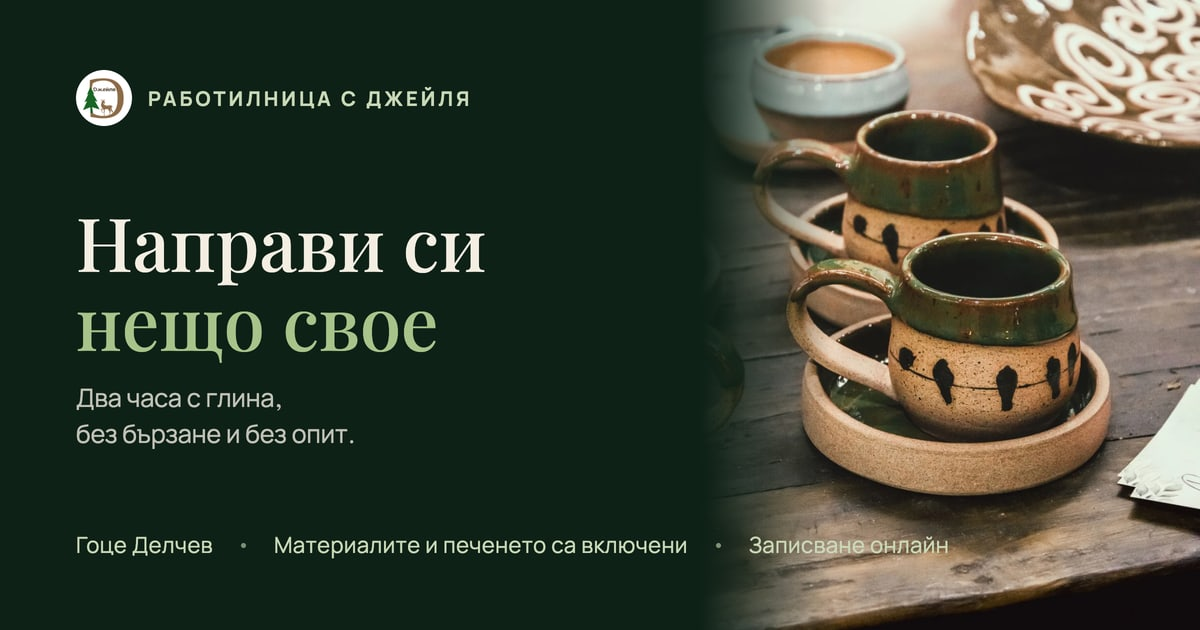
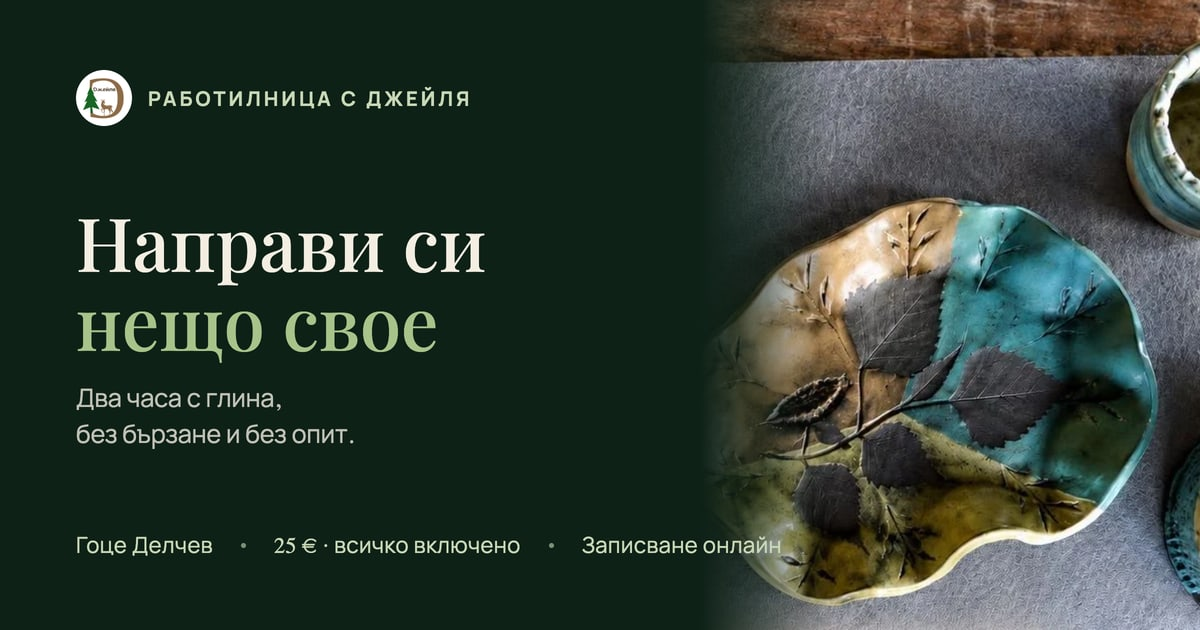
Нейни снимки от Facebook; истинските цена, места и майстор от плакатите ѝ

diff --git a/src/data/site.ts b/src/data/site.ts
@@ -15,7 +15,9 @@ export const brand = {
   phone: '+359893622801',
   phoneDisplay: '0893 622 801',
   city: 'Гоце Делчев',
-  venue: 'ул. „Брегалница“ 3',
+  venue: 'ул. „Брегалница“ 1',
+  /** Води работилниците; Джейля е домакин и приема записванията. */
+  ceramicist: 'Злата Златкова',
 };
 
 export const hero = {
@@ -32,17 +34,17 @@ export const hero = {
    * never quite still.
    */
   piece: {
-    src: '/media/piece-chashi.webp',
-    alt: 'Ръчно изработени керамични чаши върху дървена маса',
+    src: '/media/her/chiniya.webp',
+    alt: 'Ботаническа чиния с отпечатани листа, направена на работилница',
     caption: 'Направено на работилница',
   },
   piece2: {
-    src: '/media/piece-chasha.webp',
-    alt: 'Керамична чаша, оставена да изсъхне',
+    src: '/media/her/chasha-sinya.webp',
+    alt: 'Ръчно рисувана керамична чаша',
   },
   facts: [
     { k: 'Трае', v: '2 часа' },
-    { k: 'Цена', v: '31 €' },
+    { k: 'Цена', v: '25 €' },
     { k: 'Опит', v: 'не е нужен' },
   ],
 };
@@ -65,16 +67,16 @@ export const process = {
       at: '0:00',
       title: 'Сядаш и се запознаваме',
       text:
-        'Наливам по чаша лимонада и показвам глината — каква е на пипане и какво ще правим с нея. Пет минути, колкото да се отпуснем.',
-      image: '/media/workshop/glina-na-masata.webp',
-      alt: 'Ръце месят глина върху дървена дъска',
+        'Наливам по чаша домашна лимонада, а Злата показва глината — каква е на пипане и какво ще правим с нея. Пет минути, колкото да се отпуснем.',
+      image: '/media/her/masa-race.webp',
+      alt: 'Хора работят с глина около обща маса',
     },
     {
       at: '0:20',
       title: 'Оформяш',
       text:
-        'Показвам захвата, после е твое. Мачкаш, изтъняваш, вдигаш стените. Глината прощава — ако не стане, започваш отначало със същата буца.',
-      image: '/media/workshop/oformyane.webp',
+        'Злата показва захвата, после е твое. Мачкаш, изтъняваш, вдигаш стените. Глината прощава — ако не стане, започваш отначало със същата буца.',
+      image: '/media/her/oformyane.webp',
       alt: 'Ръце оформят глина',
     },
     {
@@ -82,16 +84,16 @@ export const process = {
       title: 'Украсяваш',
       text:
         'Печати, шарки, инициали, листо от двора. Тук всяка чаша става различна от съседната.',
-      image: '/media/workshop/risuvane.webp',
-      alt: 'Ръка рисува върху керамична чаша',
+      image: '/media/her/otpechatak.webp',
+      alt: 'Ръце отпечатват листа в глинена плоча',
     },
     {
       at: '1:50',
       title: 'Оставяш я при мен',
       text:
-        'Глината трябва да изсъхне и да мине два пъти през пещта. Пиша ти, щом чашата е готова, и си я вземаш оттук.',
-      image: '/media/workshop/gotovi-za-pech.webp',
-      alt: 'Изсъхнали керамични чаши, подредени преди изпичане',
+        'Глината трябва да изсъхне и да мине два пъти през пещта. Пиша ти, щом чашата е готова, и си я вземаш от магазина.',
+      image: '/media/her/magazin.webp',
+      alt: 'Рафтове с готови керамични чаши в магазина',
     },
   ],
 };
@@ -126,12 +128,12 @@ export const included = {
     {
       title: 'Изпичане и глазиране',
       text: 'Двете печения след това са включени в цената.',
-      image: '/media/workshop/inc-prestilka.webp',
+      image: '/media/her/rabota.webp',
     },
     {
-      title: 'Помощ през цялото време',
-      text: 'Показвам, обяснявам и оправям, ако се обърка.',
-      image: '/media/workshop/inc-pomosht.webp',
+      title: 'Майстор до теб',
+      text: 'Злата показва, обяснява и оправя, ако се обърка.',
+      image: '/media/her/momiche.webp',
     },
   ],
 };
@@ -147,34 +149,34 @@ export const gallery = {
    */
   rows: [
     [
-      { src: '/media/gallery/chinii-i-chashi.webp', w: 1300, h: 867, span: 5,
-        alt: 'Ръчно изработени чинии и чаши, подредени на купчина',
-        caption: 'Чинии и чаши от една вечер' },
-      { src: '/media/gallery/chasha-cvetna.webp', w: 1300, h: 1950, span: 3,
-        alt: 'Керамична чаша с цветна шарка',
+      { src: '/media/her/chiniya.webp', w: 810, h: 695, span: 5,
+        alt: 'Ботаническа чиния с отпечатани листа',
+        caption: 'Ботаническа чиния — листата се отпечатват в глината' },
+      { src: '/media/her/chasha-sinya.webp', w: 520, h: 280, span: 3,
+        alt: 'Ръчно рисувана синя керамична чаша',
         caption: 'Шарката я измисля този, който я прави' },
-      { src: '/media/gallery/chashi-raft.webp', w: 1300, h: 867, span: 4,
-        alt: 'Керамични чаши на дървен рафт',
-        caption: 'Рафтът в ателието, преди да си ги приберат' },
+      { src: '/media/her/magazin.webp', w: 540, h: 700, span: 4,
+        alt: 'Рафтове с керамични чаши в магазина',
+        caption: 'Рафтът в магазина, преди да си ги приберат' },
     ],
     [
-      { src: '/media/gallery/sini-chashi.webp', w: 1300, h: 867, span: 4,
-        alt: 'Сини керамични чаши с ръчна шарка',
-        caption: 'Една глеч, четири различни чаши' },
+      { src: '/media/her/momiche.webp', w: 412, h: 275, span: 4,
+        alt: 'Участничка украсява чашата си',
+        caption: 'Два часа минават, без да усетиш' },
       { src: '/media/gallery/chasha-risuvana.webp', w: 1300, h: 1733, span: 3,
         alt: 'Ръчно рисувана керамична чаша',
         caption: 'Рисувана на ръка, след първото печене' },
-      { src: '/media/gallery/chashi-darven-raft.webp', w: 1300, h: 867, span: 5,
-        alt: 'Керамични чаши, подредени на рафт',
-        caption: 'Чакат втората пещ' },
+      { src: '/media/her/otpechatak.webp', w: 430, h: 308, span: 5,
+        alt: 'Ръце отпечатват листа в глинена плоча',
+        caption: 'Листото остава в глината завинаги' },
     ],
     [
       { src: '/media/gallery/sin-servis.webp', w: 1300, h: 867, span: 5,
         alt: 'Син керамичен сервиз на рафт',
         caption: 'Като се хванеш, спираш трудно' },
-      { src: '/media/gallery/chashi-tabla.webp', w: 1300, h: 867, span: 4,
-        alt: 'Керамични чаши върху табла',
-        caption: 'Готови за прибиране' },
+      { src: '/media/her/masa-race.webp', w: 402, h: 268, span: 4,
+        alt: 'Общата маса по време на работилница',
+        caption: 'Масата е обща — и разговорът също' },
       { src: '/media/gallery/chasha-cherna.webp', w: 1300, h: 1950, span: 3,
         alt: 'Тъмна керамична чаша',
         caption: 'Матова глеч — любимата на повечето' },

diff --git a/src/data/events.ts b/src/data/events.ts
@@ -23,27 +23,27 @@ export const seedEvents: WorkshopEvent[] = [
       'Два вечерни часа с буца глина, чаша домашна лимонада и маса, на която никой не бърза.',
     description:
       'Започваме с глината — каква е на пипане, докъде се разтяга и защо прощава. После всеки сяда пред своята буца: оформяш чаша, изтъняваш стените, правиш дръжката. Минавам покрай всеки и помагам, но формата си е изцяло твоя. Накрая избираш глеч и оставяш чашата при мен — глината минава два пъти през пещта и си я вземаш, щом е готова.',
-    cover_image: '/media/gallery/chashi-raft.webp',
+    cover_image: '/media/her/chasha-sinya.webp',
     starts_at: '2026-10-16T19:00:00+03:00',
     duration_minutes: 120,
-    venue_name: 'Ателие „Джейля“',
-    venue_address: 'ул. „Брегалница“ 3, Гоце Делчев',
-    venue_map_url: 'https://maps.google.com/?q=ул.+Брегалница+3,+Гоце+Делчев',
+    venue_name: 'Магазин „Джейля“',
+    venue_address: 'ул. „Брегалница“ 1, Гоце Делчев',
+    venue_map_url: 'https://maps.google.com/?q=ул.+Брегалница+1,+Гоце+Делчев',
     city: 'Гоце Делчев',
-    price_cents: 3100,
-    price_note: 'Глината, глечта, изпичането и лимонадата са включени.',
-    capacity: 12,
-    seats_taken: 8,
+    price_cents: 2500,
+    price_note: 'Всичко е включено — материали, изпичане и домашна лимонада.',
+    capacity: 8,
+    seats_taken: 5,
     min_age: 12,
     includes: [
-      'Глина, колкото ти трябва',
-      'Глеч по избор',
-      'Инструменти и престилка',
-      'Двете печения след работилницата',
-      'Чаша домашна лимонада',
+      'Работилница със Злата Златкова',
+      'Всички материали и инструменти',
+      'Изработка на собствена чаша',
+      'Изпичане и глазиране',
+      'Домашна лимонада и почерпка',
     ],
     bring_note: 'Ела с дрехи, които не ти е жал да изцапаш.',
-    host_note: 'Води Джейля',
+    host_note: 'Води Злата Златкова, майстор керамик',
     waitlist_enabled: true,
   },
   {
@@ -58,26 +58,27 @@ export const seedEvents: WorkshopEvent[] = [
       'По-дълга работилница за тези, които искат чашата да е точно по тяхната ръка.',
     description:
       'Три часа само върху чашата: формата, дебелината на стените, дръжката и накрая украсата. Показвам ти как се държи глината и как се поправя, когато тръгне накриво. Избираш глеч, аз поемам пещта и ти пиша, щом чашата е готова за прибиране.',
-    cover_image: '/media/gallery/chasha-risuvana.webp',
+    cover_image: '/media/her/momiche.webp',
     starts_at: '2026-11-08T18:30:00+02:00',
-    duration_minutes: 180,
-    venue_name: 'Ателие „Джейля“',
-    venue_address: 'ул. „Брегалница“ 3, Гоце Делчев',
-    venue_map_url: 'https://maps.google.com/?q=ул.+Брегалница+3,+Гоце+Делчев',
+    duration_minutes: 120,
+    venue_name: 'Магазин „Джейля“',
+    venue_address: 'ул. „Брегалница“ 1, Гоце Делчев',
+    venue_map_url: 'https://maps.google.com/?q=ул.+Брегалница+1,+Гоце+Делчев',
     city: 'Гоце Делчев',
-    price_cents: 4500,
-    price_note: 'Глината, глечта и изпичането са включени.',
-    capacity: 10,
-    seats_taken: 3,
+    price_cents: 2500,
+    price_note: 'Всичко е включено — материали, изпичане и домашна лимонада.',
+    capacity: 8,
+    seats_taken: 2,
     min_age: 12,
     includes: [
-      'Глина и глеч по избор',
-      'Инструменти и престилка',
-      'Двете печения след работилницата',
-      'Кафе, чай или лимонада',
+      'Работилница със Злата Златкова',
+      'Всички материали и инструменти',
+      'Изработка на собствена чаша',
+      'Изпичане и глазиране',
+      'Домашна лимонада и почерпка',
     ],
     bring_note: null,
-    host_note: 'Води Джейля',
+    host_note: 'Води Злата Златкова, майстор керамик',
     waitlist_enabled: true,
   },
   {
@@ -92,27 +93,27 @@ export const seedEvents: WorkshopEvent[] = [
       'Създаваш своя ботаническа чиния — с листа и цветя, отпечатани направо в глината.',
     description:
       'Разточваме глината на плоско и отпечатваме в нея листа, треви и цветя. После я оформяме в чиния и я оставяме да съхне. Всяка чиния излиза различна, защото няма две еднакви листа. Глечта и двете печения са включени — пиша ти, щом е готова.',
-    cover_image: '/media/gallery/chinii-i-chashi.webp',
+    cover_image: '/media/her/chiniya.webp',
     starts_at: '2026-12-06T17:00:00+02:00',
-    duration_minutes: 150,
-    venue_name: 'Ателие „Джейля“',
-    venue_address: 'ул. „Брегалница“ 3, Гоце Делчев',
-    venue_map_url: 'https://maps.google.com/?q=ул.+Брегалница+3,+Гоце+Делчев',
+    duration_minutes: 120,
+    venue_name: 'Магазин „Джейля“',
+    venue_address: 'ул. „Брегалница“ 1, Гоце Делчев',
+    venue_map_url: 'https://maps.google.com/?q=ул.+Брегалница+1,+Гоце+Делчев',
     city: 'Гоце Делчев',
-    price_cents: 3600,
-    price_note: 'Глината, глечта и изпичането са включени.',
-    capacity: 14,
-    seats_taken: 14,
+    price_cents: 2500,
+    price_note: 'Всичко е включено — материали, изпичане и домашна лимонада.',
+    capacity: 8,
+    seats_taken: 8,
     min_age: 12,
     includes: [
-      'Глина и глеч по избор',
+      'Работилница със Злата Златкова',
       'Листа и треви за отпечатване',
-      'Инструменти и престилка',
-      'Двете печения след работилницата',
-      'Чаша домашна лимонада',
+      'Всички материали и инструменти',
+      'Изпичане и глазиране',
+      'Домашна лимонада и почерпка',
     ],
     bring_note: null,
-    host_note: 'Води Джейля',
+    host_note: 'Води Злата Златкова, майстор керамик',
     waitlist_enabled: true,
   },
 ];

diff --git a/PLACEHOLDERS.md b/PLACEHOLDERS.md
@@ -5,25 +5,45 @@ not moss art in Пловдив. Everything on the site was rewritten for that, b
 most of the specifics are still guesses. Do not show a client a site whose data
 looks authoritative without saying which parts you made up.
 
-## Real — confirmed from her own Facebook
+## Real — read off her own event posters
 
+Her four Facebook event covers are posters, and they carry the details. These
+are no longer guesses:
+
+- **Злата Златкова, майстор керамик, leads the workshops.** Джейля hosts them
+  in her shop and takes the bookings. The site now says so — „Злата показва
+  захвата“, „Води Злата Златкова“ — instead of implying Джейля teaches.
+- **25 € per person, всичко включено.** Not the 31/45/36 I had invented.
+- **8 places.** „САМО 8 МЕСТА“ on two of the posters.
+- **Два часа**, evening starts (18:00) or afternoon (16:00).
+- **Магазин „Джейля“**, and the posters give the address as
+  **ул. „Брегалница“ 1** — see the conflict below.
+- **What is included**, in her own words: работилница със Злата · всички
+  материали и инструменти · изработка на собствена чаша · изпичане ·
+  домашна лимонада и почерпка · много смях.
+- **Booking today is by private message** — „Запази своето място с лично
+  съобщение“. That is precisely the gap this site closes.
+- **The three workshop titles** are hers: „Глина и лимонада“, „Направи своя
+  керамична чаша“ (edition #7), „Природа, глина, лимонада“ — ботаническа
+  чиния (edition #5).
 - **The brand** — „Подари с Джейля“: logo, phone, email, Instagram, Facebook,
-  and the shop at edinpodarak.com.
-- **The three workshop titles.** They are hers, taken from her event pages:
-  „Глина и лимонада“, „Направи своя керамична чаша“ (that one is at edition #7),
-  „Природа, глина, лимонада“ — ботаническа чиния (edition #5).
-- **The town and street** — гр. Гоце Делчев, ул. „Брегалница“ 3.
+  and the shop, which her poster gives as edinpodarak.com.
 - **One line of the hero copy** is her own, from a post of hers:
   *„Понякога най-хубавите вечери не са пред екрана, а с чаша в ръце, която сам
   си създал.“* It is lightly adapted. If she would rather it stayed hers alone,
   it is one line to change.
 
+### One conflict to settle
+
+Her posters say **ул. „Брегалница“ 1**. The place tag on her Facebook events
+says **ул. Брегалница 3**. The site uses **1**, from the posters. Ask her.
+
 ## Invented — must be confirmed
 
 | Where | What is made up |
 |---|---|
-| `src/data/events.ts` | All dates, times, prices, durations, capacities and seat counts |
-| `src/data/events.ts` | The venue is called „Ателие „Джейля““ — the street is right, the name is a guess |
+| `src/data/events.ts` | **The dates and times.** The three on her posters — 1 август, 6 август, 28 август — have all passed, so the ones on the site are invented future dates |
+| `src/data/events.ts` | The seat counts (how many are already taken) |
 | `src/data/site.ts` | **That the piece is collected later.** Clay has to dry and be fired twice, so the site says she writes when it is ready. Standard for ceramics, but confirm how long it takes and whether people collect or she posts them |
 | `src/data/site.ts` | The four steps of „Как протича“ and the clock times on them |
 | `src/data/site.ts` | Everything under „Какво е включено“, including that glazing and both firings are in the price |
@@ -32,16 +52,21 @@ looks authoritative without saying which parts you made up.
 | `src/pages/poveritelnost.astro` | Legal identity is `[ТЪРГОВСКО НАИМЕНОВАНИЕ]`, `[ЕИК]`, `[АДРЕС]` |
 | `src/pages/usloviya.astro` | The cancellation terms |
 
-**Every photograph is Pexels stock** — see `CREDITS.md`. Her own photos of the
-ceramics workshops should replace all of them.
+**Most of the photography is now hers**, cut out of her own event posters —
+the botanical plate, the hand-painted blue cup, the leaf pressed into a slab,
+her shop shelves, and the workshop table. They are small, because a poster is
+all Facebook would give without a login: between 400px and 810px wide. Ask her
+for the originals and they can go straight in.
+
+The hero background and a few gallery tiles are still Pexels stock — see
+`CREDITS.md`, which lists exactly which.
 
 Prices are shown in EUR, which matches her shop.
 
 ## Worth asking her
 
-- Her Facebook post says *„местата за първите **ни** работилници“* — **ни**, not
-  **ми**. If she runs these with someone, the whole site is in the wrong
-  person: it is written throughout as „аз“ — „показвам“, „пиша ти“, „пиши ми“.
+- The „ни“ in her post is now explained: Злата leads, Джейля hosts. The site
+  reflects that, but she should read it and confirm the division is right.
 - Do the moss workshops still happen at all? The site now says nothing about
   them; the shop link in the footer is the only trace.
 - Is „Работилница по керамика #7“ a numbering she wants shown on the site?

diff --git a/CREDITS.md b/CREDITS.md
@@ -3,16 +3,32 @@
 ## Client's own material
 Logo: Джейля / „Подари с Джейля“ (edinpodarak.com, instagram.com/djeilqart).
 
+## Her own photographs — `public/media/her/`
+
+Cut out of the four event posters on her Facebook page, plus one frame from a
+reel of her shop. **These are her pictures of her own workshops**, used on her
+own site. They are small — 400 to 810px — because a poster is all Facebook
+serves without a login. Ask her for the originals.
+
+| File | What it is |
+|---|---|
+| `chiniya.webp` | the botanical plate — the hero piece and the gallery lead |
+| `chasha-sinya.webp` | the hand-painted blue cup |
+| `momiche.webp` | a participant decorating her cup |
+| `masa-race.webp` | the shared table mid-workshop |
+| `otpechatak.webp` | leaves pressed into a clay slab |
+| `oformyane.webp` | hands shaping the clay |
+| `rabota.webp` | working at the table |
+| `magazin.webp` | the shelves in her shop |
+
 ## Pexels (free licence, no attribution required — listed for traceability)
 
-**Every photograph on the site is stock and is a placeholder.** The workshops
-are hers; these pictures are not. Replace them with photos from her own
-ceramics workshops in Гоце Делчев as soon as she sends them.
+What is left of the stock, and still a placeholder:
 
 Hero
-- pexels.com/photo/6611187/ — handmade mugs on a studio shelf (the hero ground)
-- pexels.com/photo/28509629/ — glazed cups on a wooden table (the near piece)
-- pexels.com/photo/4830752/ — a cup in a workshop (the far piece)
+- pexels.com/photo/6611187/ — mugs on a studio shelf, the hero background.
+  Hers is too small for a full-bleed background; this is the one slot where
+  stock is still doing real work.
 - pexels.com/photo/6611175/ — raw clay, used inside the word „свое“
 
 Gallery — finished ceramics
